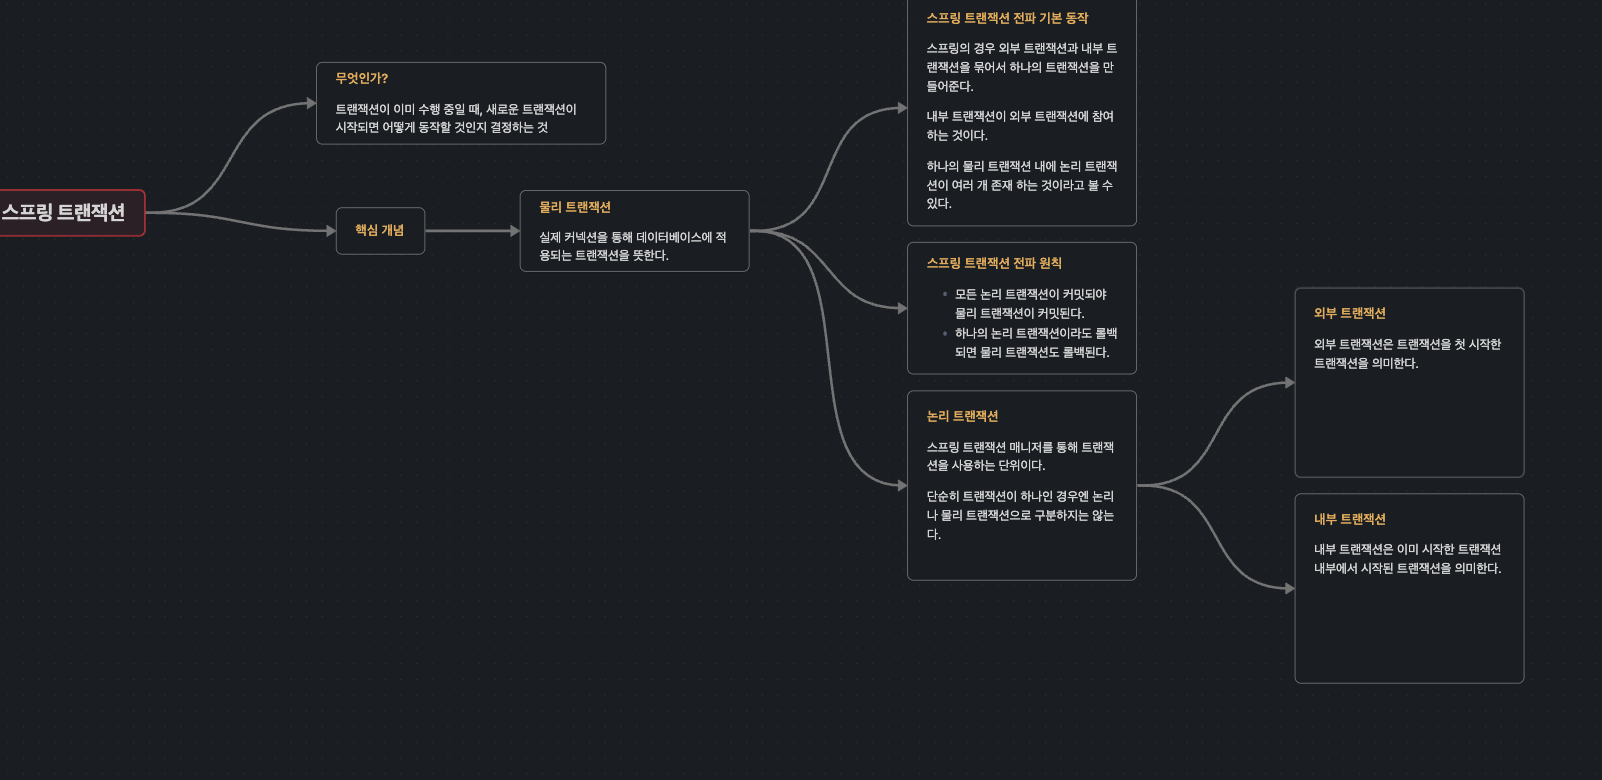
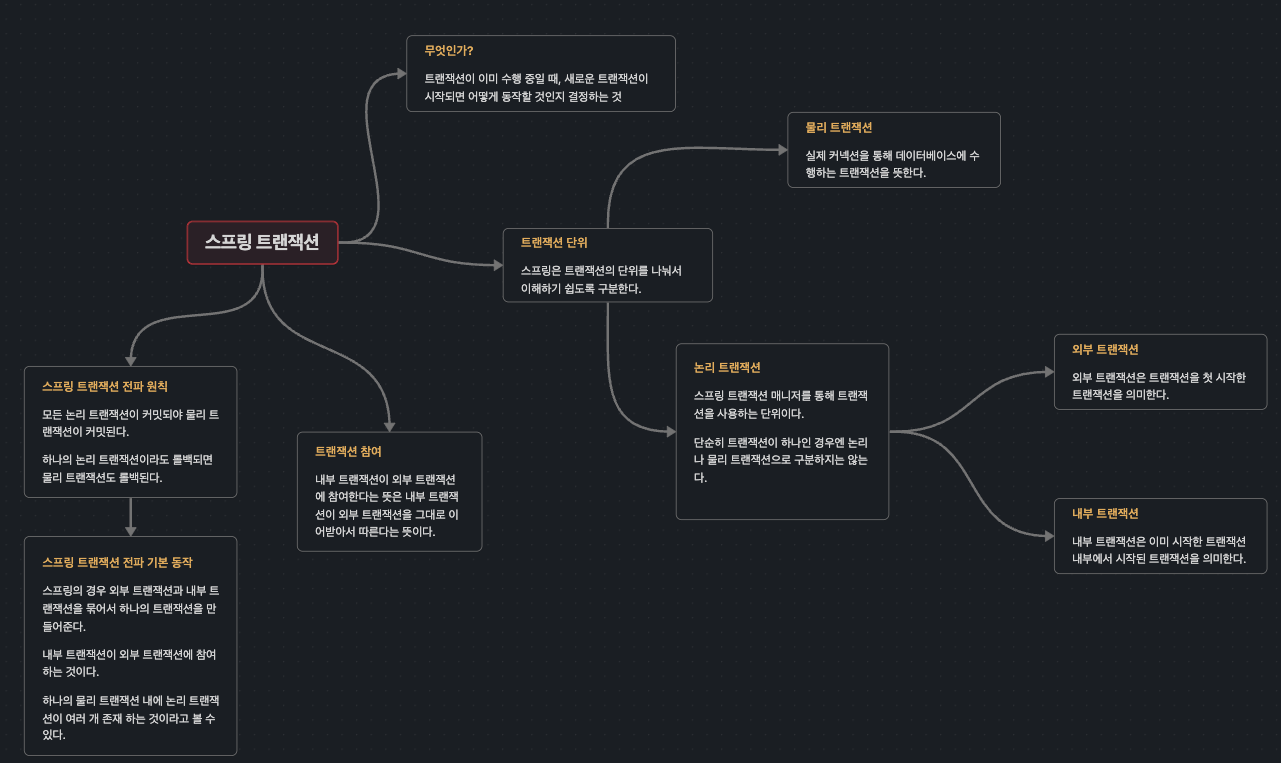
vault backup: 2024-12-28 20:44:06

diff --git a/content/Resources/프로그래밍/Java/김영한의 DB/DB 2편/11. 스프링 트랜잭션 전파.md b/content/Resources/프로그래밍/Java/김영한의 DB/DB 2편/11. 스프링 트랜잭션 전파.md
@@ -156,8 +156,9 @@ void double_commit_rollback() {
 
 ## 스프링 트랜잭션 전파 - 전파 기본
 
+![[스프링 트랜잭션 전파.png]]
 
-캔버스로 마인드맵 형태로 정리한 핵심 내용이다. 다음은 예제를 작성하고 실행해본다.
+마인드맵 형태로 정리한 핵심 내용이다. 다음은 예제를 작성하고 실행해본다.
 
 ```java
 @Test  
@@ -194,6 +195,11 @@ void inner_commit() {
 2024-12-28T20:29:34.986+09:00 DEBUG 2820 --- [springtx] [    Test worker] o.s.j.d.DataSourceTransactionManager     : Committing JDBC transaction on Connection [HikariProxyConnection@48550482 wrapping conn0: url=jdbc:h2:mem:ae6f759f-e42f-4ec4-9fb2-071304a8ea3f user=SA]
 2024-12-28T20:29:34.986+09:00 DEBUG 2820 --- [springtx] [    Test worker] o.s.j.d.DataSourceTransactionManager     : Releasing JDBC Connection [HikariProxyConnection@48550482 wrapping conn0: url=jdbc:h2:mem:ae6f759f-e42f-4ec4-9fb2-071304a8ea3f user=SA] after transaction
 ```
+
+트랜잭션 전파 원칙처럼, 외부 트랜잭션이 시작되고 내부 트랜잭션이 시작되면 하나의 물리 트랜잭션으로 동작한다. 즉, 내부 트랜잭션 `inner`가 외부 트랜잭션 `outer`의 트랜잭션에 참여한 것이다.
+
+- 외부 트랜잭션 `outer`는 `isNewTransaction()`이 `true`이다. 처음 수행된 신규 트랜잭션이라는 의미다.
+- 내부 트랜잭션 `innter`는 `isNewTransaction()`이 `false`이다. 이 경우 신규 트랜잭션이 아니다.
 
 ---
 References: 김영한 스프링 DB 2편
